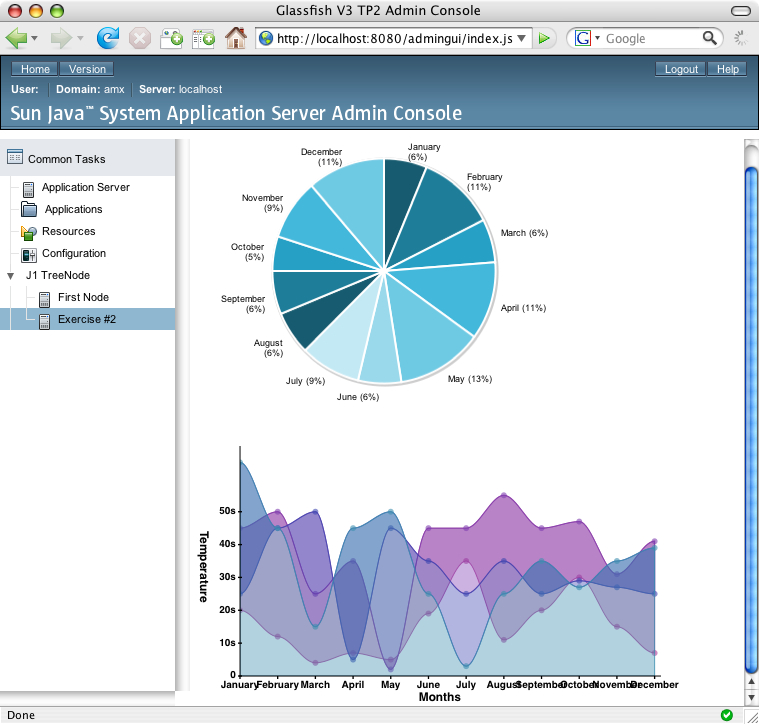
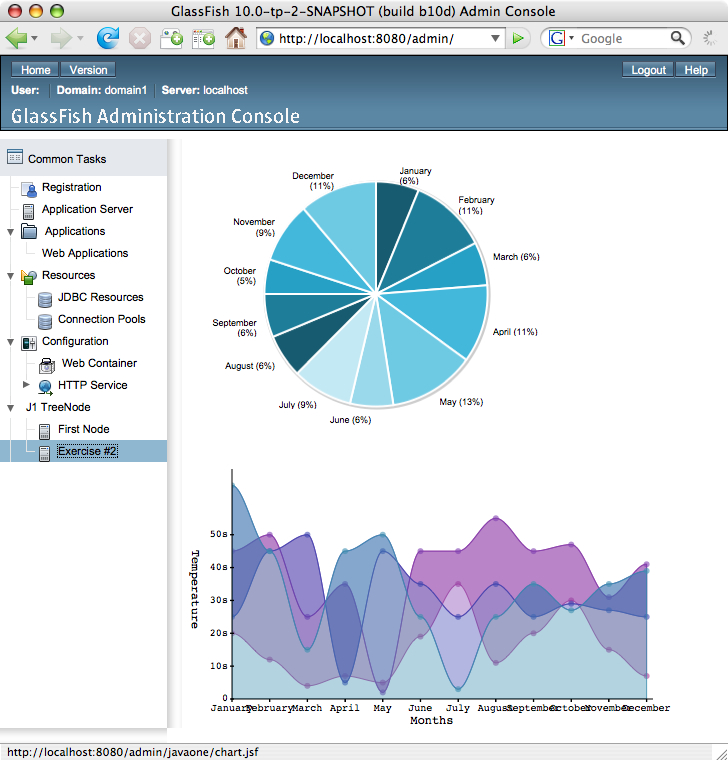
- fix the header image which has the wrong url - recapture image based on tp2 release
svn path=/trunk/; revision=20833

Former-commit-id: 32af5d92b51f1e2b14a6c48f3b0ca89b129af4de

Changed region(s): [[0.0, 0.0, 1.0, 1.0]]

diff --git a/v3/admingui/j1plugin/gfplugin/doc/exercise1.html b/v3/admingui/j1plugin/gfplugin/doc/exercise1.html
@@ -689,17 +689,9 @@ glassfish/bin/asadmin start-domain
 </div>
 		</li>
 
-		<li>Deploy the Administration Console.
-<div class="console">
-<pre>
-glassfish/bin/asadmin deploy glassfish/admingui 
-</pre>
-</div>
-		</li>
-
-
                 <li>In the browser enter the following URL to bring up the Administration Console:
-                    <div class="codebox"><pre>http://localhost:8080/admingui/index.jsf</pre></div>
+                    <div class="codebox"><pre>http://localhost:8080/admin</pre></div>
+		    <p><img src="images/ex1-install.jpg"></p>
 
                     <p> <span class="j1holnote">Note: The navigation tree on
 			    the left does not have the "J1 TreeNode" yet as you
@@ -766,7 +758,7 @@ glassfish/bin/asadmin start-domain
                     </li>
 
                     <li>In the browser enter the following URL to bring up the Administration Console:
-                        <div class="codebox"><pre>http://localhost:8080/admingui/index.jsf</pre></div>
+                        <div class="codebox"><pre>http://localhost:8080/admin</pre></div>
                         
                         <ol class="j1hollist">
                             <li>Note the "<b>J1 TreeNode</b>" tree node is now

diff --git a/v3/admingui/j1plugin/gfplugin/doc/exercise3.html b/v3/admingui/j1plugin/gfplugin/doc/exercise3.html
@@ -89,7 +89,7 @@ cp -r gfplugin/solution/myplugin/ex2 gfplugin/myplugin
 
 <p class="j1holsubheader">Overview:</p>
 
-<p> In this excercise, you will complete the following:</p>
+<p> In this exercise, you will complete the following:</p>
 <a name="ex3contents">
     <ol class="j1hollist" style="list-style-type: upper-alpha;">
 	<li><b><a href="#ex3stepA">Create a jMaki Charting Page within a Template.</a></b>
@@ -403,7 +403,7 @@ glassfish/bin/asadmin start-domain
 </div>
 	    </li>
             <li>In the browser enter the following URL to bring up the Administration Console:
-                <div class="codebox"><pre>http://localhost:8080/admingui/index.jsf</pre></div>
+                <div class="codebox"><pre>http://localhost:8080/admin</pre></div>
 
 	<p> Expand the <code>JavaOne</code> tree node which is displayed in
 	    the navigation tree.  Note the new tree node "Exercise #3" under

diff --git a/v3/admingui/j1plugin/gfplugin/doc/exercise2.html b/v3/admingui/j1plugin/gfplugin/doc/exercise2.html
@@ -427,7 +427,7 @@ glassfish/bin/asadmin start-domain
 </div>
 	    </li>
             <li>In the browser enter the following URL to bring up the Administration Console:
-                <div class="codebox"><pre>http://localhost:8080/admingui/index.jsf</pre></div>
+                <div class="codebox"><pre>http://localhost:8080/admin</pre></div>
 
 	    <li>Expand the JavaOne tree node in the navigation tree, note your
 		new tree node "<code>Exercise #2</code>" has been added.  Click
